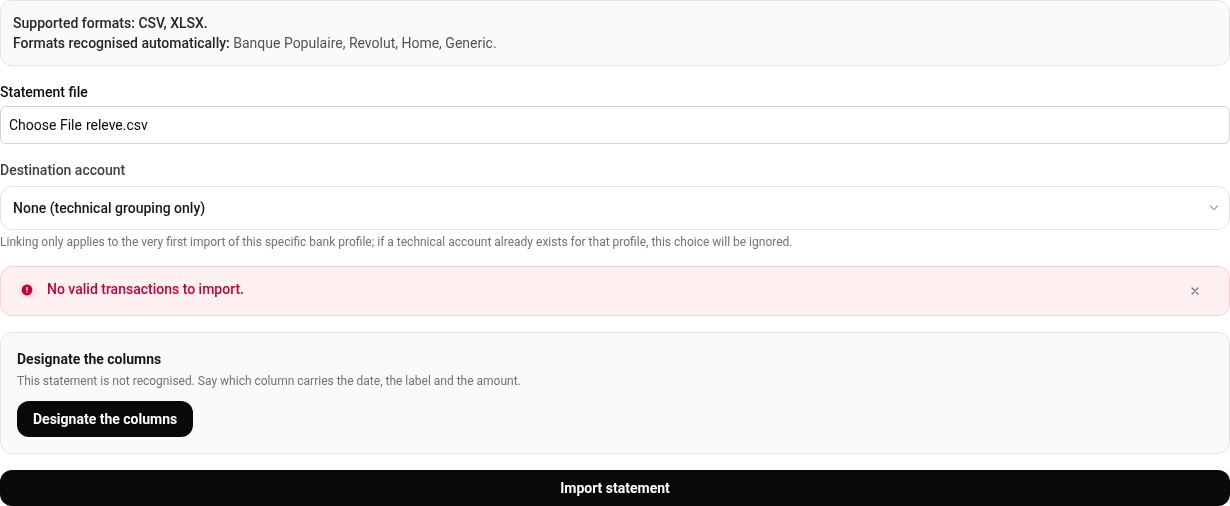
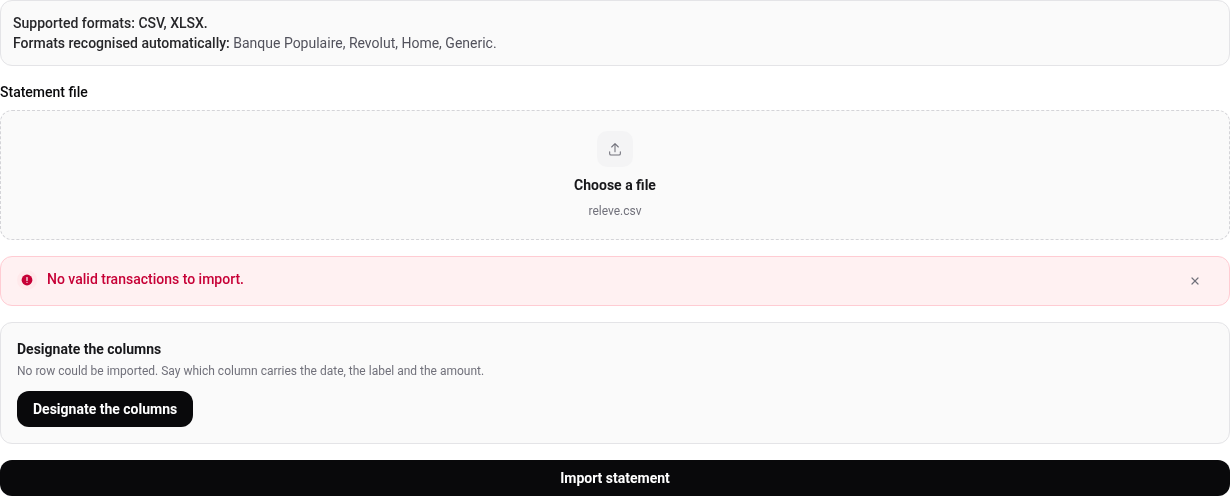
docs(import): correct what the import pages claim, and say what 0.12 added
Checked against Diátaxis, and against Google's and Microsoft's style guides for the writing. The
import documentation had drifted from the code, and 0.12.0 and 0.12.1 widened the gap without
touching a page.

**Three claims were false.**

- `getting-started.md` taught an **Auto** profile in a table of profiles you pick. There is no
  profile selector; the header row decides.
- Both `getting-started.md` and `troubleshooting.md` said any column other than the four is
  refused. Since the alias table shipped, an unrecognised column is IGNORED and the file imports —
  the opposite, on the two pages a beginner reads first, deterring exactly the files that work.
- Both stated the accepted dates as `YYYY-MM-DD` or `DD/MM/YYYY`. Four forms are accepted.

**One page sent a stuck reader away from the fix.** `troubleshooting.md`'s « My CSV import is
rejected » is the page someone actually reaches, and it pointed at CONTRIBUTING.md — asking a user
whose bank is not supported to write code, when the designation screen exists to answer that. It
now leads with that screen, and shows a file that works beside one that does not, so the rule is
readable rather than stated:

- extra columns and accented names import;
- an amount split across Débit and Crédit is refused, because designating one would drop every row
  carried by the other.

**Two capabilities shipped undocumented**, and `using/imports.md` still listed both as not built:
[…]

diff --git a/docs/using/imports.md b/docs/using/imports.md
@@ -52,6 +52,23 @@ Three columns are enough. **Category is optional**, and leaving it empty means
 the transactions arrive uncategorised, where [categorization
 rules](./rules.md) can still pick them up.
 
+#### On a wide screen
+
+The same four rows sit on the left, and your file is drawn beside them: the
+first rows of the statement, columns in the order the file writes them, with
+the role you assigned printed above each column's own name. Columns you have
+not designated are greyed, not hidden, so you can still see what's in them.
+
+A wide statement scrolls sideways and says how much of it you're seeing, for
+example `5 of 13 columns visible`.
+
+The rows you see are your file's actual rows. The values inside the column
+cards are picked to be _distinguishing_ — a mostly-empty column shows you its
+own few values rather than three blanks — so they don't line up into rows. The
+preview reads the file again instead of arranging those.
+
+![The designation screen on a wide display: the four role rows on the left with Date, Label and Amount filled from the file's own column names, and the file preview on the right showing five statement rows across thirteen columns, the designated ones labelled DATE, LABEL and AMOUNT above their column names, the rest greyed, and a counter reading 10 of 13 columns visible](../screenshots/imports/columns-designation-desktop.png)
+
 ![The import summary offering to designate the columns, under the heading Designate the columns](../screenshots/imports/columns-offer-desktop.png)
 
 ### 3. It is remembered, so you are only asked once
@@ -66,6 +83,33 @@ be redesignated and the others keep their answers.
 
 Memorisation is on by default, stated on the screen, with a link to decline it
 for a file you do not expect to see again.
+
+### Forget a remembered answer
+
+Go to **Settings > Remembered columns**. Each row shows the columns it names,
+when it was remembered, and how many imports have used it. **Forget** removes
+it.
+
+Forgetting removes the answer, not the history. Your imported transactions stay
+exactly where they are. What you lose is the **View the columns** link on those
+past imports, so you can no longer reopen them from the Imports page.
+
+You'd forget one when a bank changes its export and the old answer now reads
+the wrong columns, or when you've reached the limit on how many BudgetPilot
+keeps and want the room for a new bank.
+
+### A statement with no header row
+
+Some exports start straight into transactions, with no titles at the top. On
+the designation screen, turn on **The first row contains data**.
+
+Turn it on and BudgetPilot reads every line as a transaction. Leave it off and
+it treats your first transaction as a title row and skips it, which is one
+transaction missing from every import of that file.
+
+A file like this is designated **every time**. There are no column names to
+remember it by, and its first line changes with every statement, so there is
+nothing stable for BudgetPilot to recognise it by later.
 
 **Destination account** is optional, and the form says the one thing about
 it that is easy to get wrong: it applies only to the **very first** import
@@ -194,12 +238,6 @@ For the columns and what each count includes, see the
 
 Named with their issues rather than promised, so each reads as a decision:
 
-- **No preview table at 1280** ([#332](https://github.com/NonoHM/budgetpilot/issues/332)).
-  The values are read in the column cards at both widths. The referential has no table
-  component yet, and building one here would define it from its rarest case.
-- **No list of remembered correspondences** ([#326](https://github.com/NonoHM/budgetpilot/issues/326)).
-  You cannot yet review or remove one from settings. There is a cap of 50 per account, and
-  reaching it says so.
 - **No date format, decimal separator or delimiter control.** The screen reserves room for
   them and does not draw them. BudgetPilot reads dates as day/month and the comma as a
   decimal separator; a file written the other way imports on the wrong date rather than

diff --git a/docs/getting-started.md b/docs/getting-started.md
@@ -274,15 +274,20 @@ A fresh account is empty apart from 14 default categories. Two ways to fill
 it:
 
 **Import a statement** (Imports > Import statement). CSV and XLSX are
-accepted, with these profiles:
+accepted.
 
-| Profile          | What it is                                                    |
+**You don't pick a profile.** BudgetPilot reads the file's header row and works
+out the format itself. These are the ones it knows:
+
+| Format           | What it is                                                    |
 | ---------------- | ------------------------------------------------------------- |
-| Auto             | Detects one of the below from the file's header row           |
 | Banque Populaire | Their statement export                                        |
-| Revolut          | Their statement export                                        |
+| Revolut          | Their statement export, French or English                     |
 | Home             | BudgetPilot's own CSV export, so an export re-imports cleanly |
-| Generic          | Any CSV you can shape yourself, see below                     |
+| Generic          | Any other CSV, matched by column name                         |
+
+If it recognises none of them, it asks you which column is which. See
+[importing a statement](./using/imports.md) for that screen.
 
 **Home** recognises two shapes: the seven-column header older exports wrote,
 and the ten-column one exports write today. A file you exported months ago
@@ -305,8 +310,9 @@ as several separate transactions. Two limits worth knowing:
   order, and the category the transaction returns to if you remove the
   split.
 
-Your bank isn't listed? Use **Generic**. Reshape your export to exactly
-these columns:
+Your bank isn't listed? You usually don't have to do anything. BudgetPilot
+matches columns by name, so most exports import as they are. This is the
+shape it understands without help:
 
 ```csv
 date,label,amount,category
@@ -322,9 +328,14 @@ date,label,amount,category
   categories are created under French names, which is what the sample above
   uses; if you accepted the offer to rename them into your own language, use
   the new names instead.
-- No other column is allowed, the import refuses the file rather than
-  guessing.
-- Dates are `YYYY-MM-DD` or `DD/MM/YYYY`.
+- **Extra columns are ignored, not refused.** A bank export with a balance
+  and a reference column imports fine; BudgetPilot uses what it recognises.
+- Column names are matched loosely: `Libellé`, `libelle`, and `Description`
+  all fill the label. Accents and capitals don't matter.
+- Dates can be `2026-01-15`, `15/01/2026`, `15.01.2026`, or `15-01-2026`. The
+  day comes first, never the month.
+- If nothing matches, BudgetPilot asks you to designate the columns rather
+  than refusing the file.
 - Amounts are signed: negative is an expense, positive is income. A zero
   amount is rejected.
 

diff --git a/docs/troubleshooting.md b/docs/troubleshooting.md
@@ -165,14 +165,52 @@ Settings, and the model in `LLM_MODEL` actually pulled.
 
 ## My CSV import is rejected
 
-The Generic profile only accepts the columns `date`, `label`, `amount` and
-optionally `category`. Any other column is refused rather than guessed at.
-Dates are `YYYY-MM-DD` or `DD/MM/YYYY`, amounts are signed, zero amounts are
-rejected. Full format in
-[getting started](./getting-started.md#first-steps-in-the-app).
+**You don't have to reshape your file.** If BudgetPilot can't read it, the
+import summary offers **Designate the columns**, and you tell it which column
+holds the date, the label, and the amount. It remembers your answer, so the
+next statement from that bank imports without asking.
 
-If your bank's export doesn't map onto that, a new import profile is a very
-welcome contribution, see [CONTRIBUTING.md](../CONTRIBUTING.md).
+Extra columns are fine. BudgetPilot ignores what it doesn't recognise and
+imports the rest, so a bank export with fifteen columns works when three of
+them are the ones it needs.
+
+### Why this works
+
+```csv
+Date,Libellé,Montant,Solde,Référence
+01/06/2026,MERCERIE LAFAYETTE,-45.20,1204.80,REF000101
+```
+
+Three columns are recognised by name, `Solde` and `Référence` are ignored, and
+the file imports. Accented spellings work too.
+
+### Why this doesn't
+
+```csv
+Date,Libellé,Débit,Crédit
+01/06/2026,MERCERIE LAFAYETTE,45.20,
+```
+
+The amount is split across two columns. Designating one of them would drop
+every row carried by the other, so BudgetPilot refuses the file instead of
+importing half your statement. Combine the two into one signed column, where
+an expense is negative.
+
+Two more refusals you can act on:
+
+- **A date it can't read.** The message shows the value it read and the forms
+  it accepts, for example `date non reconnue : « 01/06/26 » (attendu :
+JJ/MM/AAAA ou AAAA-MM-JJ)`. Accepted forms are listed in the
+  [import reference](./reference/imports.md#accepted-date-formats).
+- **A currency that isn't euros.** BudgetPilot stores euros only, so a file
+  declaring `GBP` is refused rather than relabelled.
+
+If your statement has no header row at all, open **Designate the columns** and
+turn on **The first row contains data**. Without it, BudgetPilot reads your
+first transaction as a title and you lose it.
+
+Still stuck? A new import profile is a welcome contribution, see
+[CONTRIBUTING.md](../CONTRIBUTING.md).
 
 ## I lost my two-factor device
 

diff --git a/docs/reference/imports.md b/docs/reference/imports.md
@@ -36,7 +36,31 @@ spelling. A **category** column is used when present and is optional.
 | Label  | `label`, `libelle`, `Description`, `Partner Name`                  |
 | Amount | `amount`, `montant`, `Amount (EUR)`                                |
 
-Case and surrounding spaces do not matter.
+Case, surrounding spaces, and accents do not matter: `Libellé`, `libelle`, and
+`LIBELLE` all fill the label role.
+
+If **two** columns claim the same role, the file is refused and the message
+names both. BudgetPilot does not pick one, because picking silently decides
+which column holds your money.
+
+### Accepted date formats
+
+| Written as   | Example      | Read as    |
+| ------------ | ------------ | ---------- |
+| `YYYY-MM-DD` | `2026-01-15` | 15 January |
+| `DD/MM/YYYY` | `15/01/2026` | 15 January |
+| `DD.MM.YYYY` | `15.01.2026` | 15 January |
+| `DD-MM-YYYY` | `15-01-2026` | 15 January |
+
+**The day always comes first**, never the month. A file written `MM/DD/YYYY`
+imports on the wrong date rather than being refused, because nothing in the
+file says which convention it uses. This is the one case designating columns
+cannot repair: convert those dates before importing.
+
+A time after the date is ignored, so `2026-01-15 10:30:00` reads as 15 January.
+
+Anything else is refused per row, and the message shows the value it read
+beside the forms it accepts.
 
 **Any column it does not recognise is ignored**, and the rest of the file
 imports. Ignoring is not the same as understanding: the column's values are

diff --git a/docs/screenshots/imports/README.md b/docs/screenshots/imports/README.md
@@ -33,6 +33,27 @@ Unlike the other groups, this arrangement is **not** created by
 form actions rather than files. Import the file above by hand, twice, before
 capturing.
 
+## The designation shots need their own arrangement
+
+`columns-offer-desktop`, `columns-designation-mobile`, `columns-picker-mobile` and
+`columns-designation-desktop` are the `import-columns` group, not `imports`. They
+need no seeded history: the harness uploads a statement no profile recognises,
+because a seeded import is by definition one that WAS recognised.
+
+```bash
+BASE_URL=http://localhost:4175 node scripts/doc-screenshots.mjs import-columns
+```
+
+The desktop shot uses its own **thirteen-column** file. The preview's whole
+desktop behaviour is what it does with a file wider than the region — it draws
+the columns that fit and counts the rest — and a three-column file photographs a
+table with nothing to scroll.
+
+Both fixtures are invented: holder Paul Mercier, made-up merchants, made-up
+amounts and references. Only the SHAPE comes from a real statement — opaque
+column names, the amount far from the date. **Nothing in these images comes from
+anyone's bank**, and nothing that goes in them should.
+
 ## Language
 
 English, with the browser locale pinned as well as the app's. See

diff --git a/docs/README.md b/docs/README.md
@@ -103,6 +103,11 @@ Rules, limits and exact values, in [reference](./reference/README.md):
 Why the app behaves as it does, in [explanation](./explanation/README.md):
 
 - [Why a split row shows two amounts under a filter](./explanation/filtered-row-amounts.md).
+- [What this does not do, and why](./explanation/what-this-does-not-do.md) — the
+  absences that are decisions rather than gaps.
+- [Where this differs from other budgeting apps](./explanation/where-this-differs.md).
+- [How the security claims were verified](./explanation/security-verification.md) —
+  what was tested, by whom, and what isn't covered.
 
 ---
 
